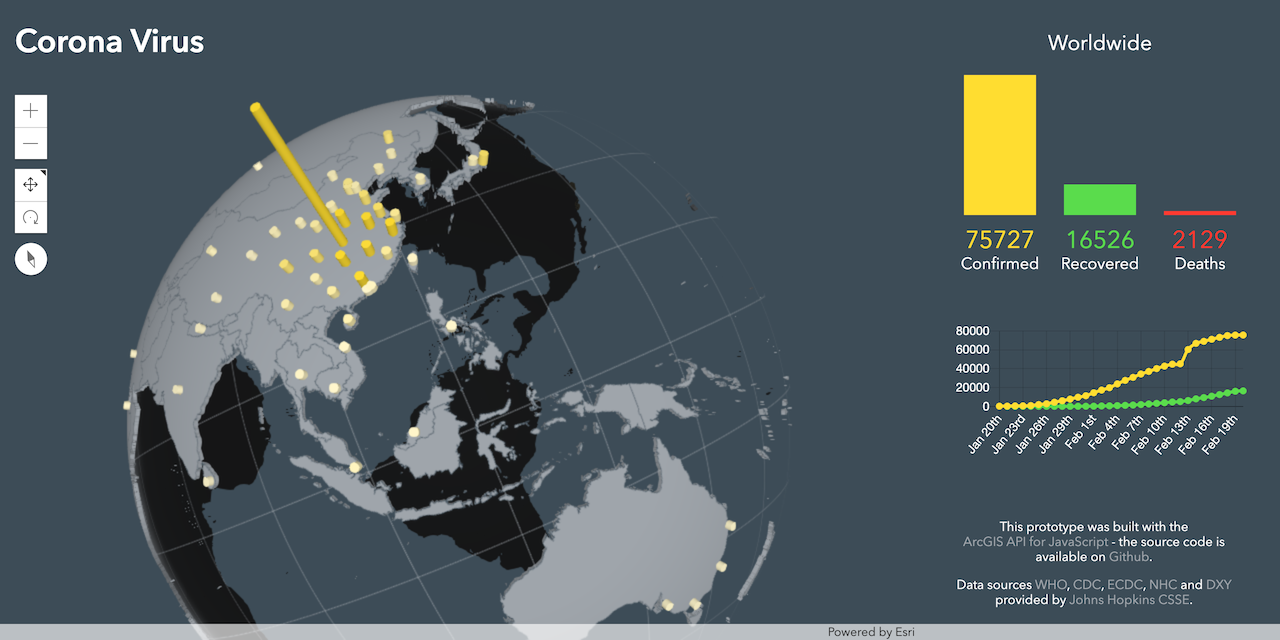
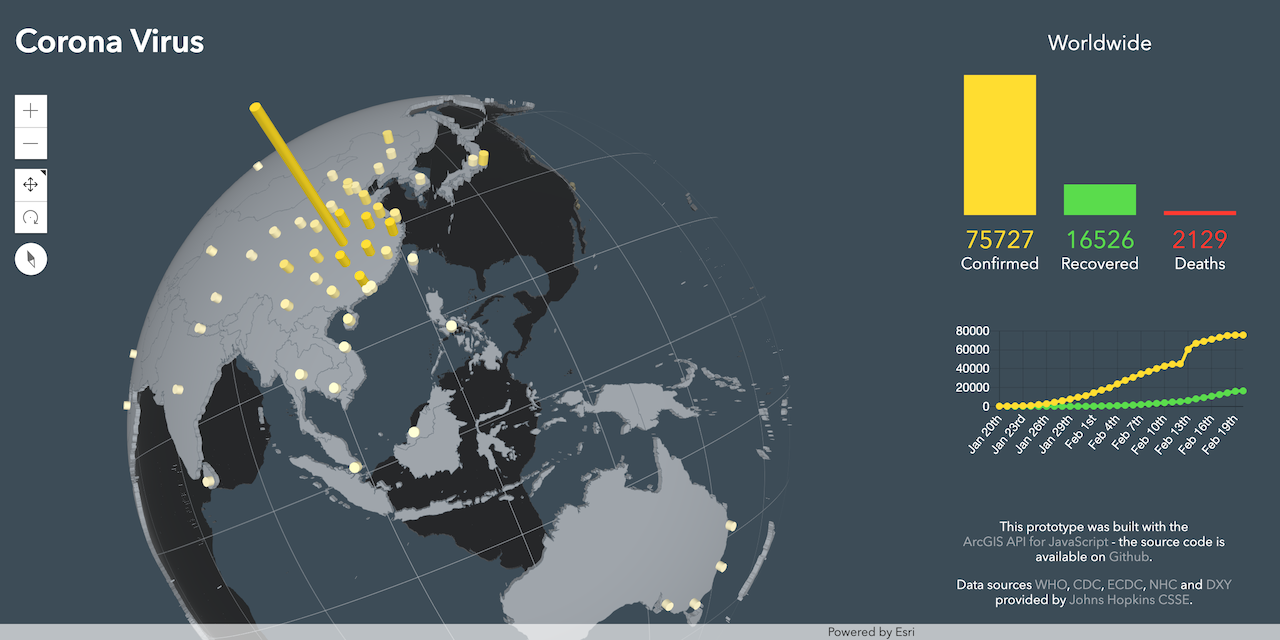
Disable popups

diff --git a/main.js b/main.js
@@ -81,17 +81,12 @@ require([
     renderer: {
       type: "simple",
       symbol: {
-        type: "polygon-3d",  // autocasts as new PolygonSymbol3D()
+        type: "polygon-3d",
         symbolLayers: [
           {
-            type: "extrude",  // autocasts as new ExtrudeSymbol3DLayer()
-            size: 75000,  // 100,000 meters in height
-            material: { color: colors.countries }, // [255, 255, 255, 0.5]
-            // edges: {
-            //   type: "solid", // autocasts as new SolidEdges3D()
-            //   // color: "#3D4C57",
-            //   size: "2px",
-            // },
+            type: "extrude",
+            size: 75000,
+            material: { color: colors.countries },
           }
         ]
       },
@@ -129,7 +124,9 @@ require([
   });
 
   view.when().then(() => {
-    view.popup.defaultPopupTemplateEnabled = true;
+    view.popup.defaultPopupTemplateEnabled = false;
+    view.popup.autoOpenEnabled = false;
+
     view.constraints.clipDistance.far *= 2;
   });
 
@@ -196,18 +193,11 @@ require([
 
     var width = 30000 * scale;
 
-    var minValue = 0; //Math.max(result.min, result.avg - result.stddev);
+    var minValue = 0;
     var minSize = 20000 * scale;
 
-    // var maxValue = Math.min(
-    //   stats.Confirmed_max,
-    //   stats.Confirmed_avg + stats.Confirmed_stddev
-    // );
     var maxValue = stats.Confirmed_max / 3;
     var maxSize = 600000 * scale;
-
-    console.log("MIN", minValue);
-    console.log("MAX", maxValue);
 
     confirmed.elevationInfo = {
       mode: "relative-to-ground",
@@ -281,17 +271,12 @@ require([
         field = "Confirmed";
     }
     updateRenderer(field);
-    console.log("Hover bar", actions);
   }
 
   confirmed
     .queryFeatures(query)
     .then(result => {
       stats = result.features[0].attributes;
-
-      console.log("Stats", stats);
-
-
 
       totalConfirmed = stats.Confirmed_sum;
       totalDeaths = stats.Deaths_sum;
@@ -440,8 +425,6 @@ require([
       "https://services1.arcgis.com/0MSEUqKaxRlEPj5g/ArcGIS/rest/services/cases_time_v3/FeatureServer/0"
   });
   cases.queryFeatures().then(result => {
-    console.log("Cases", result);
-
     var labels = result.features.map(f =>
       moment(new Date(f.getAttribute("Report_Date"))).format("MMM Do")
     );
